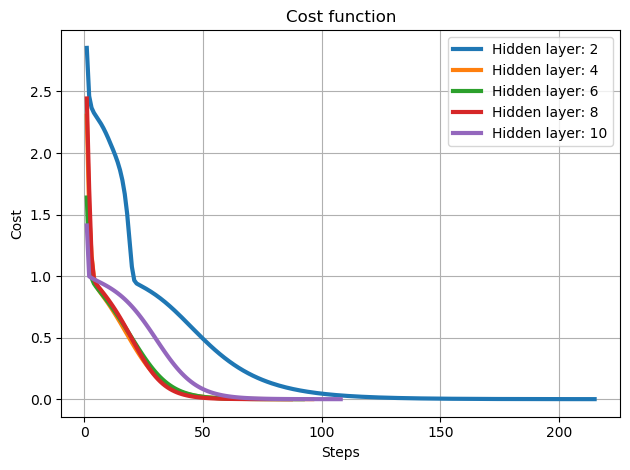
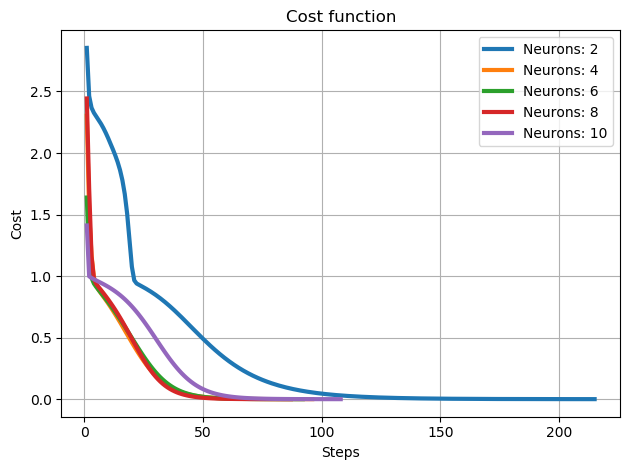
Updated neurons

Changed region(s): [[0.6937, 0.0894, 0.9651, 0.2979]]

diff --git a/NeuralNetwork-Scratch/NeuralNetwork.py b/NeuralNetwork-Scratch/NeuralNetwork.py
@@ -186,20 +186,20 @@ for n in np.arange(2, 12, 2):
     # Yhat = (Yhat > 0.5).astype(int)
 
     Yhat = np.round(Yhat, 1)  # Round values to 1 decimal place.
-    print('N_hidden_layers:' + str(n) + ', N_steps:' + str(n_steps) + ', Output:' + str(Yhat))
+    print('N_neurons:' + str(n) + ', N_steps:' + str(n_steps) + ', Output:' + str(Yhat))
     axislabel = ['Steps', 'Cost']
     gtitle = 'Cost function'
     fname = 'Cost_NN.png'
-    plotlabel = 'Hidden layer: ' + str(n)
+    plotlabel = 'Neurons: ' + str(n)
     plot_1d(costs, figsame=False, alabel=axislabel, llabel=plotlabel, title=gtitle, filename=fname)
 
 # Output
 # Plot of cost function is saved.
-# N_hidden_layers:2, N_steps:215, Output:[[-0.5  0.5  0.5 -0.5]]
-# N_hidden_layers:4, N_steps:96, Output:[[-0.5  0.5  0.5 -0.5]]
-# N_hidden_layers:6, N_steps:92, Output:[[-0.5  0.5  0.5 -0.5]]
-# N_hidden_layers:8, N_steps:87, Output:[[-0.5  0.5  0.5 -0.5]]
-# N_hidden_layers:10, N_steps:108, Output:[[-0.5  0.5  0.5 -0.5]]
+# N_neurons:2, N_steps:215, Output:[[-0.5  0.5  0.5 -0.5]]
+# N_neurons:4, N_steps:96, Output:[[-0.5  0.5  0.5 -0.5]]
+# N_neurons:6, N_steps:92, Output:[[-0.5  0.5  0.5 -0.5]]
+# N_neurons:8, N_steps:87, Output:[[-0.5  0.5  0.5 -0.5]]
+# N_neurons:10, N_steps:108, Output:[[-0.5  0.5  0.5 -0.5]]
 
 # It seems that Layer 8 converges fastest.
 # Since seed number is fixed, output will remain same at each run.

diff --git a/NeuralNetwork-Scratch/Readme.md b/NeuralNetwork-Scratch/Readme.md
@@ -12,11 +12,11 @@ Y = (-0.5), (0.5), (0.5), (-0.5)
 Plot of cost function is saved at [Cost_NN.png](https://github.com/ishmukul/MachineLearning/blob/master/NeuralNetwork-Scratch/Cost_NN.png).  
 
 Since seed number is fixed, output of Python script will remain same:  
-N_hidden_layers:2, N_steps:215, Output:[[-0.5  0.5  0.5 -0.5]]  
-N_hidden_layers:4, N_steps:96, Output:[[-0.5  0.5  0.5 -0.5]]  
-N_hidden_layers:6, N_steps:92, Output:[[-0.5  0.5  0.5 -0.5]]  
-N_hidden_layers:8, N_steps:87, Output:[[-0.5  0.5  0.5 -0.5]]  
-N_hidden_layers:10, N_steps:108, Output:[[-0.5  0.5  0.5 -0.5]]  
+N_neurons:2, N_steps:215, Output:[[-0.5  0.5  0.5 -0.5]]
+N_neurons:4, N_steps:96, Output:[[-0.5  0.5  0.5 -0.5]]
+N_neurons:6, N_steps:92, Output:[[-0.5  0.5  0.5 -0.5]]
+N_neurons:8, N_steps:87, Output:[[-0.5  0.5  0.5 -0.5]]
+N_neurons:10, N_steps:108, Output:[[-0.5  0.5  0.5 -0.5]] 
 
 It seems that Layer 8 converges fastest.  
 
